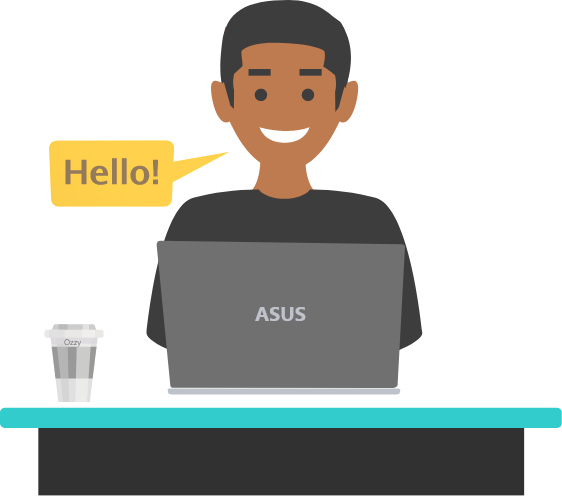
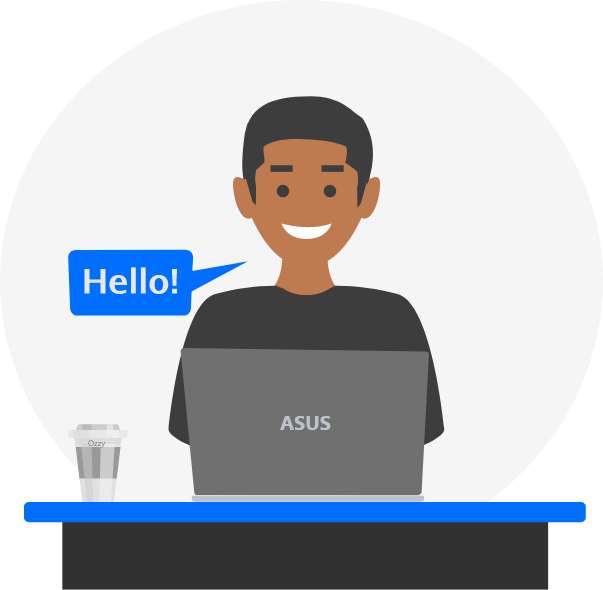
changes about image

diff --git a/src/sections/about/about.scss b/src/sections/about/about.scss
@@ -1,152 +1,146 @@
-$smallScreen : 800px;
+$smallScreen: 800px;
 $primaryColor: #f4f4fd;
 $secondaryColor: #1b1b1b;
 
 .about {
-    color: #f4f4fd;
+  color: #f4f4fd;
+  display: flex;
+  flex-wrap: wrap;
+  padding-top: 100px;
+
+  .about-text-image {
     display: flex;
-    flex-wrap: wrap;
-    padding-top: 100px;
+    flex-direction: row-reverse;
+    justify-content: space-between;
+    align-items: center;
+    margin-bottom: 30px;
 
-    .about-text-image {
-        display: flex;
-        flex-direction: row-reverse;
-        justify-content: space-between;
-        align-items: center;
-        margin-bottom: 30px;
+    .about-image {
+      margin-right: 40px;
 
-        .about-image {
-            margin-right: 40px;
+      img {
+        width: 350px;
+      }
+    }
+  }
 
-            img {
-                width: 350px;
-            }
+  .about-title {
+    font-size: 26px;
+    display: inline-block;
+    color: #006eff;
+    position: relative;
+    padding-bottom: 8px;
+  }
+
+  .spec {
+    padding-bottom: 20px !important;
+  }
+
+  .about-text {
+    p {
+      margin-bottom: 30px;
+      font-size: 18px;
+      font-weight: 300;
+      font-family: 'Lato', sans-serif;
+    }
+
+    img {
+      margin-left: 10px;
+      height: 20px;
+    }
+  }
+
+  .stack {
+    width: 100%;
+
+    .flex-item {
+      width: 100%;
+      display: flex;
+      align-items: center;
+      justify-content: space-evenly;
+      flex-wrap: wrap;
+
+      .analysed-stack {
+        .front-end,
+        .back-end {
+          background-color: #f4f4fdd7;
+          color: $secondaryColor;
+          min-height: 130px;
+          padding: 20px;
+          margin: 10px;
+          width: 210px;
         }
-    }
 
-    .about-title {
-        font-size: 26px;
-        display: inline-block;
-        color: #006eff;
-        position: relative;
-        padding-bottom: 8px;
-    }
+        ul {
+          padding-left: 10px;
+          padding-top: 10px;
 
-    .spec {
-        padding-bottom: 20px !important;
-    }
-
-    .about-text {
-
-        p {
-            margin-bottom: 30px;
-            font-size: 18px;
-            font-weight: 300;
+          li {
+            list-style: none;
+            font-size: 15px;
             font-family: 'Lato', sans-serif;
-        }
-
-        img {
-            margin-left: 10px;
-            height: 20px;
-        }
-
-    }
-
-    .stack {
-        width: 100%;
-
-        .flex-item {
-            width: 100%;
+            font-weight: 500;
             display: flex;
             align-items: center;
-            justify-content: space-evenly;
-            flex-wrap: wrap;
-
-            .analysed-stack {
-
-                .front-end,
-                .back-end {
-                    background-color: #f4f4fdd7;
-                    color: $secondaryColor;
-                    min-height: 130px;
-                    padding: 20px;
-                    margin: 10px;
-                    width: 210px;
-                }
-
-                ul {
-                    padding-left: 10px;
-                    padding-top: 10px;
-
-                    li {
-                        list-style: none;
-                        font-size: 15px;
-                        font-family: 'Lato', sans-serif;
-                        font-weight: 500;
-                        display: flex;
-                        align-items: center;
-                        margin: 10px 0;
-
-                        img {
-                            width: 30px;
-                            margin-right: 10px;
-                        }
-                    }
-                }
-            }
-        }
-
-        .res {
-            padding: 10px 0;
             margin: 10px 0;
 
-            ul {
-                padding-left: 30px;
-
-                li {
-                    padding: 5px 0 5px;
-                    color: #006eff;
-                }
+            img {
+              width: 30px;
+              margin-right: 10px;
             }
+          }
         }
-
-
+      }
     }
 
+    .res {
+      padding: 10px 0;
+      margin: 10px 0;
+
+      ul {
+        padding-left: 30px;
+
+        li {
+          padding: 5px 0 5px;
+          color: #006eff;
+        }
+      }
+    }
+  }
 }
 
 @media screen and (max-width: 800px) {
+  .about {
+    .about-text-image {
+      flex-direction: column-reverse;
+
+      .about-image {
+        margin: 0;
+        margin-bottom: 30px;
+        text-align: center;
+
+        img {
+          width: 80%;
+        }
+      }
+    }
+
+    .stack {
+      .flex-item {
+        justify-content: flex-start;
+
+        .analysed-stack {
+          display: flex;
+          flex-wrap: wrap;
+          justify-content: center;
+        }
+      }
+    }
+  }
+
+  @media screen and (max-width: 600px) {
     .about {
-        .about-text-image {
-            flex-direction: column-reverse;
-
-            .about-image {
-                margin: 0;
-                margin-bottom: 30px;
-                text-align: center;
-
-                img {
-                    width: 80%;
-                }
-            }
-        }
-
-        .stack {
-            .flex-item {
-                justify-content: flex-start;
-
-                .analysed-stack {
-                    display: flex;
-                    flex-wrap: wrap;
-                    justify-content: center;
-                }
-            }
-        }
+      grid-template-columns: repeat(auto-fill, minmax(250px, 1fr));
     }
-
-    @media screen and (max-width: 600px) {
-        .about {
-            grid-template-columns: repeat(auto-fill, minmax(250px, 1fr));
-        }
-    }
+  }
 }

diff --git a/src/sections/about/about.jsx b/src/sections/about/about.jsx
@@ -5,7 +5,7 @@ import html5 from '../../assets/html5.svg';
 import css3 from '../../assets/css3.svg';
 import js from '../../assets/js.svg';
 import nodejs from '../../assets/nodejs.svg';
-import about from '../../assets/about.png';
+import about from '../../assets/about.svg';
 import resume from '../../assets/resume.pdf';
 import CustomButton from '../../components/custom-button/custom-button';
 const About = () => {
